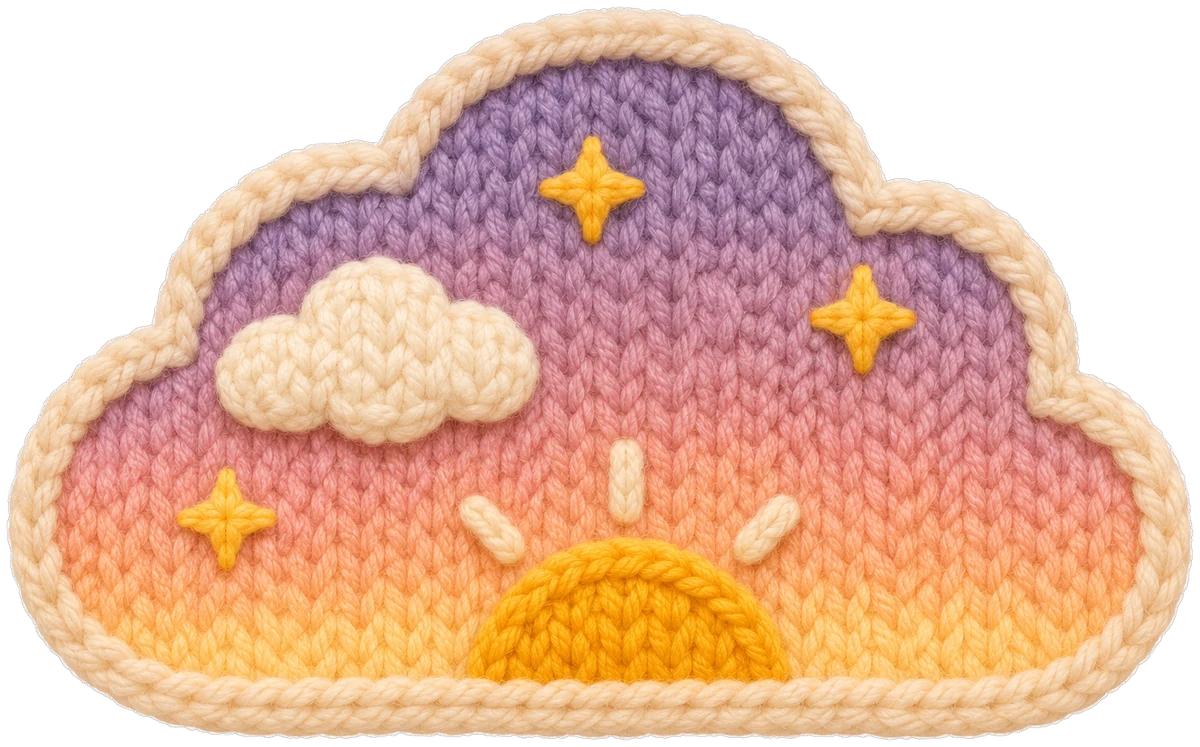
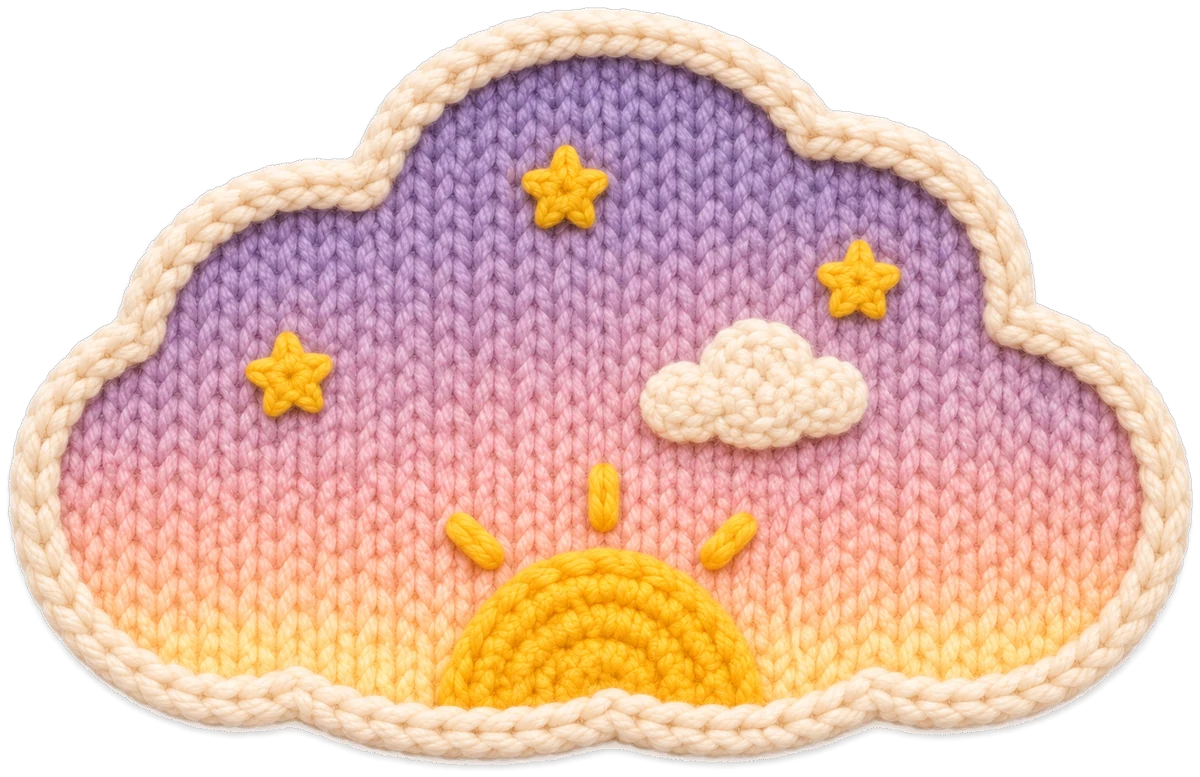
Challenge diorama: dusk sky with the same silhouette as the day sky

diff --git a/src/features/challenge-diorama/Diorama.tsx b/src/features/challenge-diorama/Diorama.tsx
@@ -87,7 +87,7 @@ export type DioramaProps = {
 
 const FIXED = {
   skyDay: L("sky-day", 1200, 782, 40, 0, 340),
-  skyDusk: L("sky-dusk", 1200, 747, 40, 6, 340),
+  skyDusk: L("sky-dusk", 1200, 777, 40, 0, 340),
   tile: L("base-tile", 900, 681, 20, 110, 380),
   building: L("building", 900, 703, 6, 96, 205),
   sign: L("sign", 520, 544, 0, 0, 40),
